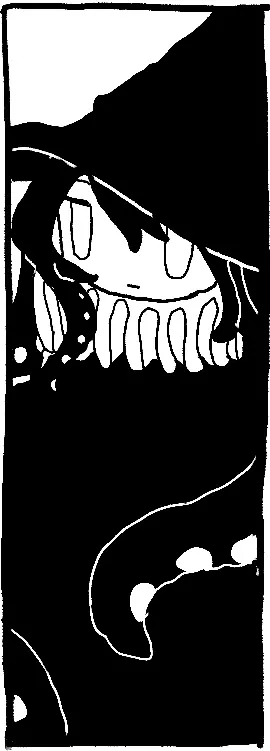
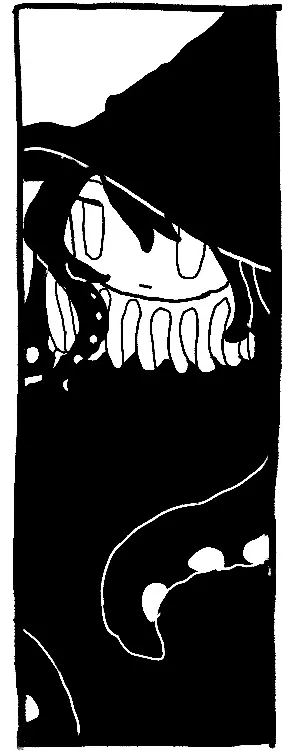
一覧ボタン画像を枠比率に合わせて余白調整
Claude-Session: https://claude.ai/code/session_017nWyPJUaovJCBe1EhNRd1c

diff --git a/index.html b/index.html
@@ -170,7 +170,7 @@ a:focus-visible,button:focus-visible{outline:3px solid var(--link);outline-offse
 
 <script>
 /* ============ データ（ここだけ編集すれば更新できます） ============ */
-const IMGV = '20261025a';                     // 画像を差し替えたらこの値を変える（ブラウザのキャッシュ対策）
+const IMGV = '20261025b';                     // 画像を差し替えたらこの値を変える（ブラウザのキャッシュ対策）
 const EXTS = ['jpg','png','webp'];           // 画像の拡張子を順に試す
 const PAGES = [['home','HOME'],['download','DOWNLOAD'],['character','CHARACTER'],['gallery','GALLERY'],['event','EVENT'],['about','ABOUT'],['contact','CONTACT・LINK']];
 
